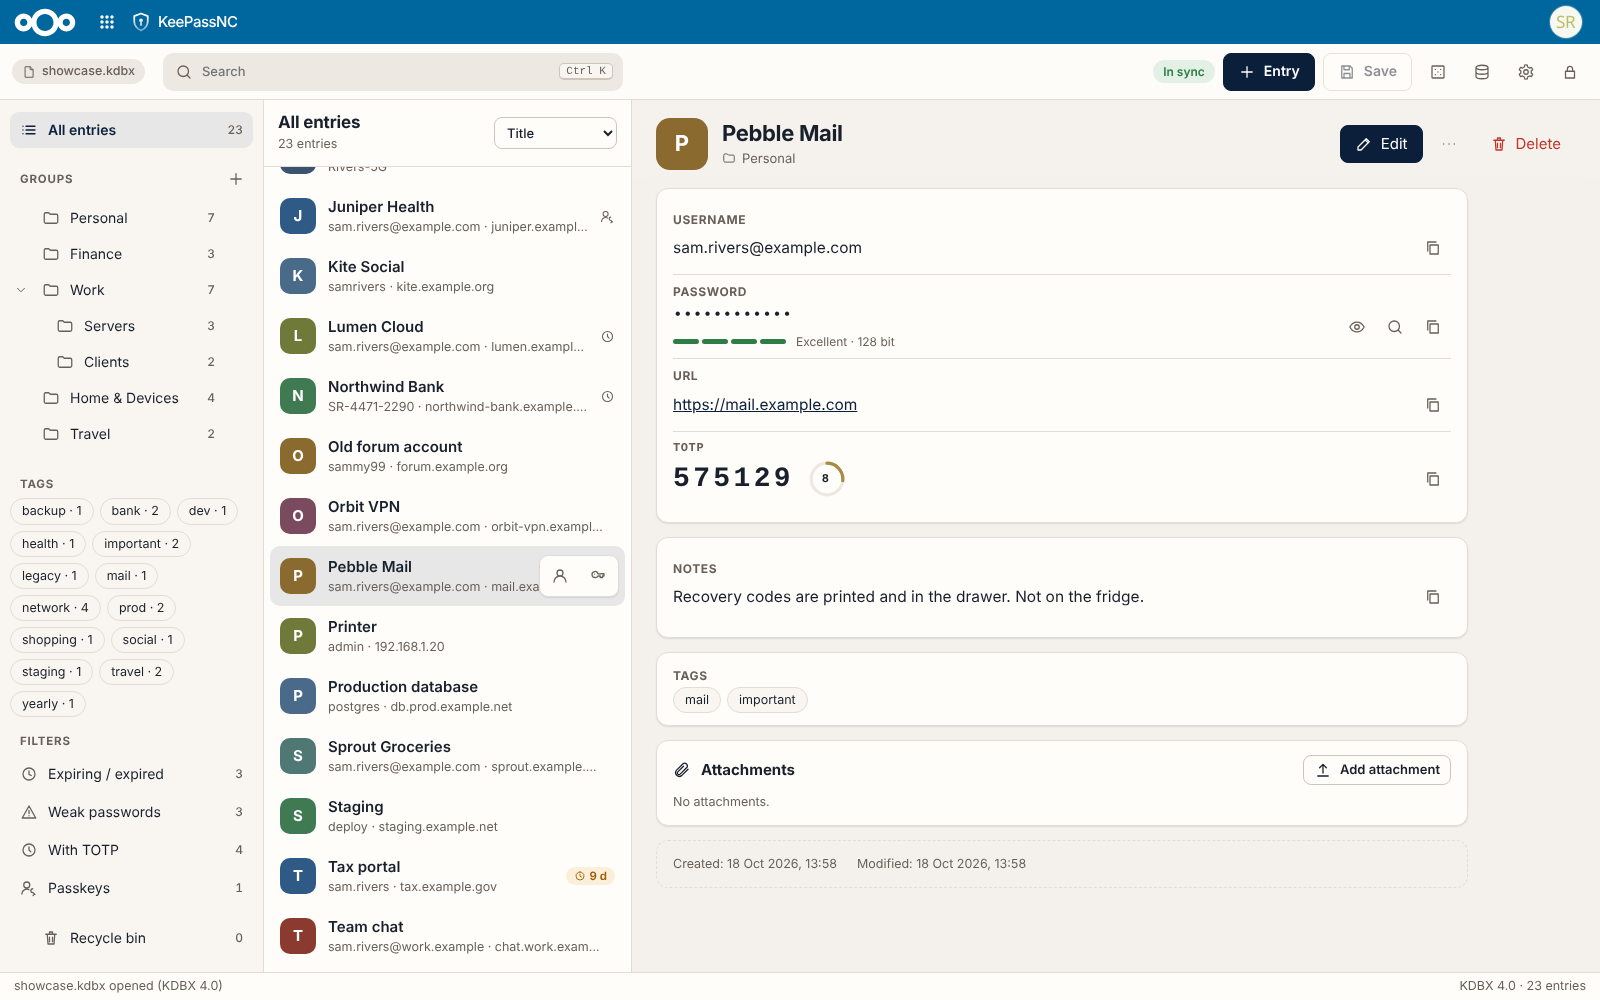
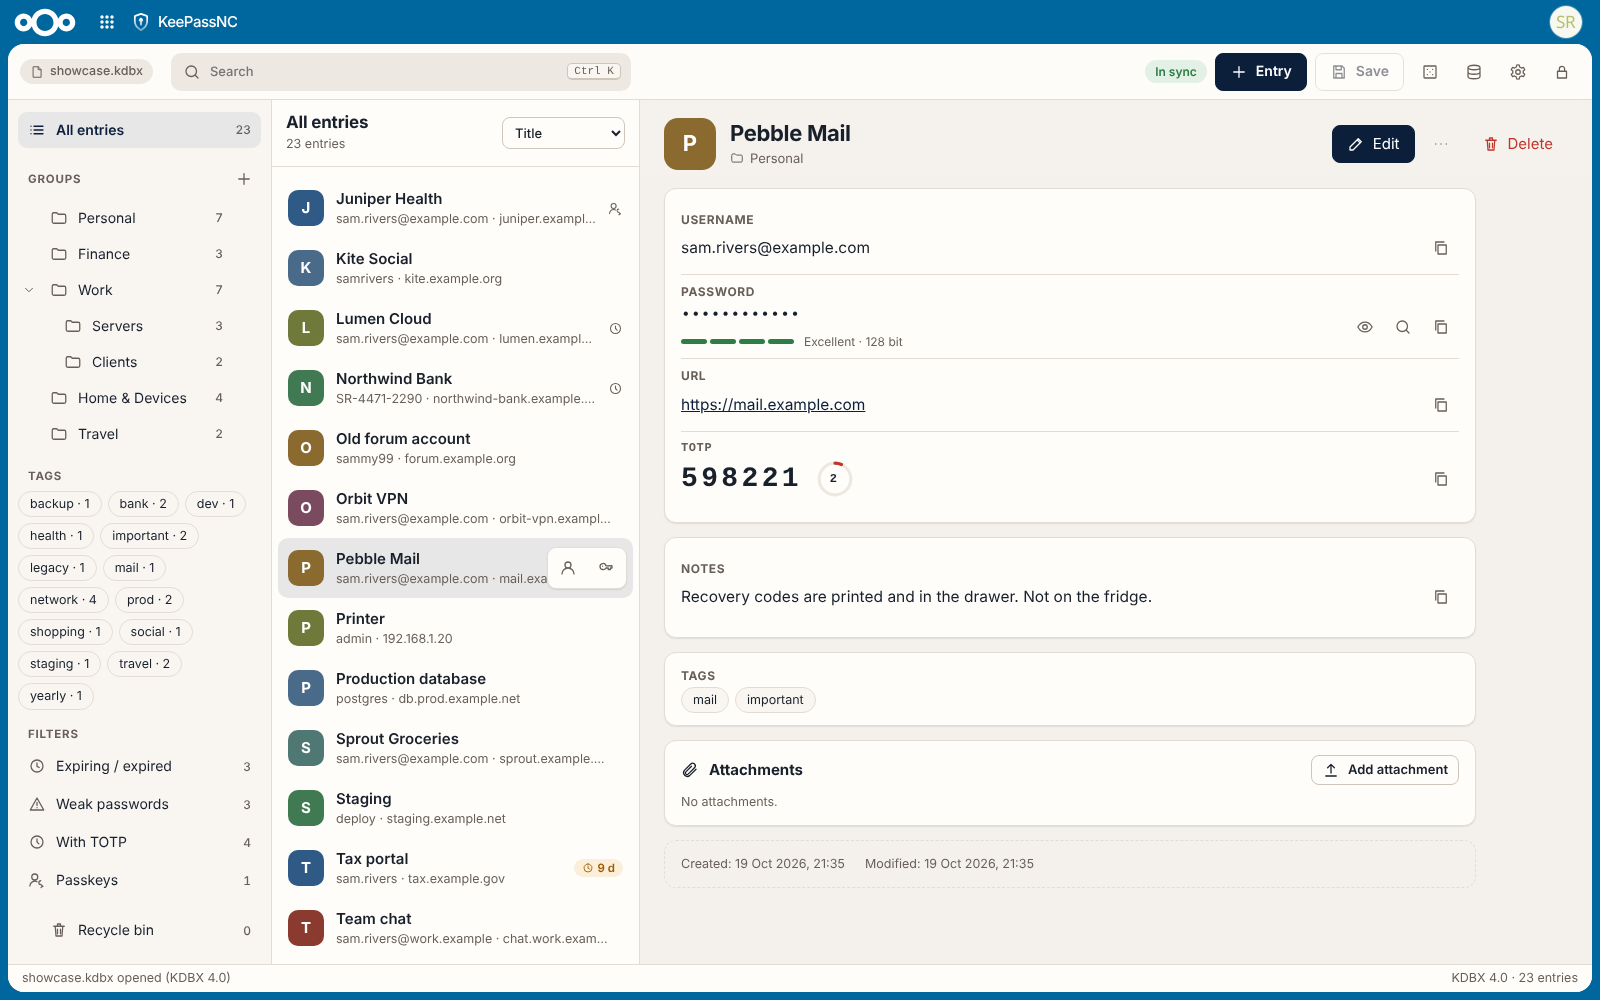
Release 0.14.0 (#94)
* Release 0.14.0

Claude-Session: https://claude.ai/code/session_019sGGRQQcC5RZshMe4Q4ABC

* Screenshots: the app in its rounded Nextcloud frame

Claude-Session: https://claude.ai/code/session_019sGGRQQcC5RZshMe4Q4ABC

---------

diff --git a/nextcloud-app/keepassnc/CHANGELOG.md b/nextcloud-app/keepassnc/CHANGELOG.md
@@ -3,6 +3,8 @@
 Format based on [Keep a Changelog](https://keepachangelog.com/en/1.1.0/).
 
 ## [Unreleased]
+
+## [0.14.0] - 2026-10-19
 ### Added
 - The search also matches the group path, so typing a folder name finds what's inside it (as in KeePass 2.60).
 ### Fixed
